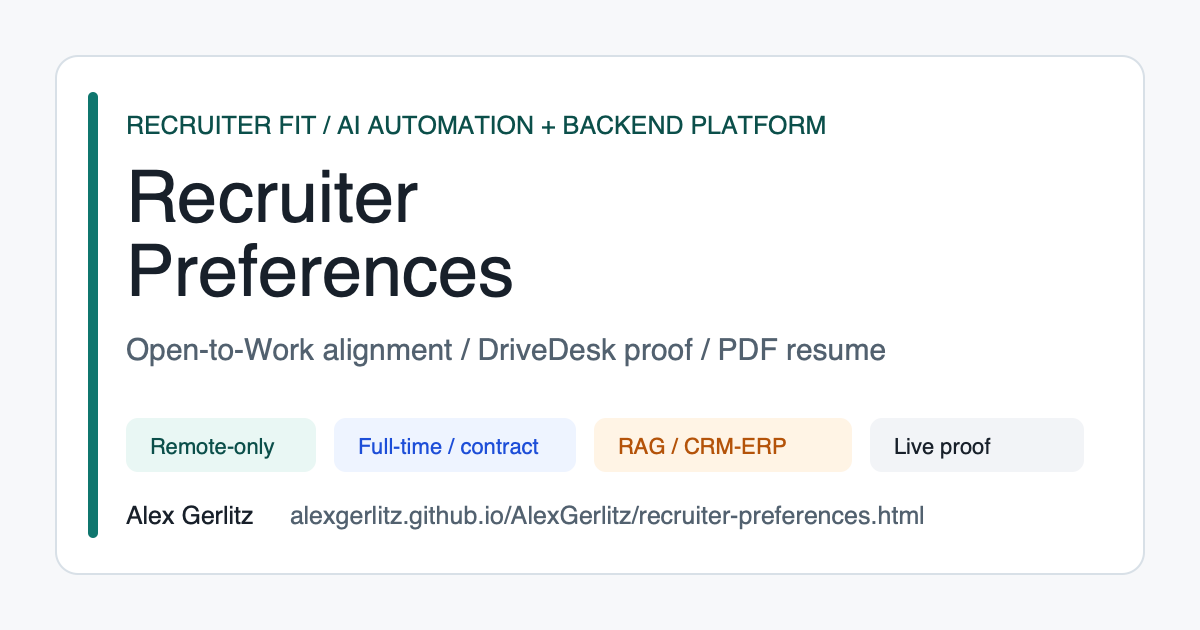
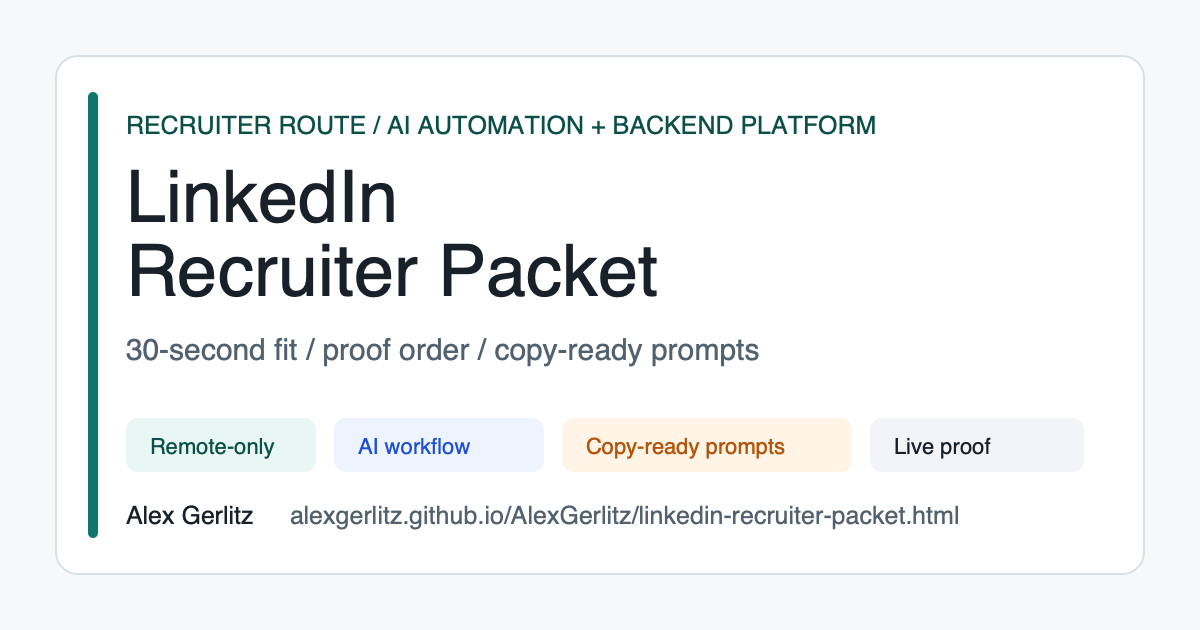
Refresh recruiter social preview card

diff --git a/recruiter-preferences.html b/recruiter-preferences.html
@@ -10,8 +10,8 @@
   <meta property="og:title" content="Recruiter Preferences - Alex Gerlitz">
   <meta property="og:description" content="Open-to-Work alignment: job titles, remote work mode, remote/location filter, language review filter, LinkedIn skills search surface, recruiter Boolean search strings, proof stack, and contact fit.">
   <meta property="og:url" content="https://alexgerlitz.github.io/AlexGerlitz/recruiter-preferences.html">
-  <meta property="og:image" content="https://alexgerlitz.github.io/AlexGerlitz/assets/recruiter-card.png?v=2026-06-29-recruiter-card">
-  <meta property="og:image:secure_url" content="https://alexgerlitz.github.io/AlexGerlitz/assets/recruiter-card.png?v=2026-06-29-recruiter-card">
+  <meta property="og:image" content="https://alexgerlitz.github.io/AlexGerlitz/assets/recruiter-card.png?v=2026-06-29-recruiter-route">
+  <meta property="og:image:secure_url" content="https://alexgerlitz.github.io/AlexGerlitz/assets/recruiter-card.png?v=2026-06-29-recruiter-route">
   <meta property="og:image:type" content="image/png">
   <meta property="og:image:width" content="1200">
   <meta property="og:image:height" content="630">
@@ -19,7 +19,7 @@
   <meta name="twitter:card" content="summary_large_image">
   <meta name="twitter:title" content="Recruiter Preferences - Alex Gerlitz">
   <meta name="twitter:description" content="Remote recruiter search alignment for backend/platform, AI automation, integrations, DevOps, recruiter filter map, LinkedIn skills search surface, Boolean search strings, proof stack, and contact fit.">
-  <meta name="twitter:image" content="https://alexgerlitz.github.io/AlexGerlitz/assets/recruiter-card.png?v=2026-06-29-recruiter-card">
+  <meta name="twitter:image" content="https://alexgerlitz.github.io/AlexGerlitz/assets/recruiter-card.png?v=2026-06-29-recruiter-route">
   <meta name="twitter:image:alt" content="Alex Gerlitz recruiter preferences preview.">
   <script type="application/ld+json">
     {

diff --git a/decision-ready-contact.html b/decision-ready-contact.html
@@ -10,8 +10,8 @@
   <meta property="og:title" content="Decision-Ready Contact - Alex Gerlitz">
   <meta property="og:description" content="Copy-ready first messages for one role, workflow, project, or proof question, plus fit read, risky assumptions, smallest responsible first slice, proof path, and next route.">
   <meta property="og:url" content="https://alexgerlitz.github.io/AlexGerlitz/decision-ready-contact.html">
-  <meta property="og:image" content="https://alexgerlitz.github.io/AlexGerlitz/assets/recruiter-card.png?v=2026-06-29-recruiter-card">
-  <meta property="og:image:secure_url" content="https://alexgerlitz.github.io/AlexGerlitz/assets/recruiter-card.png?v=2026-06-29-recruiter-card">
+  <meta property="og:image" content="https://alexgerlitz.github.io/AlexGerlitz/assets/recruiter-card.png?v=2026-06-29-recruiter-route">
+  <meta property="og:image:secure_url" content="https://alexgerlitz.github.io/AlexGerlitz/assets/recruiter-card.png?v=2026-06-29-recruiter-route">
   <meta property="og:image:type" content="image/png">
   <meta property="og:image:width" content="1200">
   <meta property="og:image:height" content="630">
@@ -19,7 +19,7 @@
   <meta name="twitter:card" content="summary_large_image">
   <meta name="twitter:title" content="Decision-Ready Contact - Alex Gerlitz">
   <meta name="twitter:description" content="Copy-ready first-contact route with fit read, risky assumptions, first slice, proof path, and next route.">
-  <meta name="twitter:image" content="https://alexgerlitz.github.io/AlexGerlitz/assets/recruiter-card.png?v=2026-06-29-recruiter-card">
+  <meta name="twitter:image" content="https://alexgerlitz.github.io/AlexGerlitz/assets/recruiter-card.png?v=2026-06-29-recruiter-route">
   <meta name="twitter:image:alt" content="Alex Gerlitz decision-ready contact preview.">
   <link rel="stylesheet" href="./assets/copy-blocks.css">
   <script src="./assets/copy-blocks.js" defer></script>

diff --git a/linkedin-recruiter-packet.html b/linkedin-recruiter-packet.html
@@ -10,8 +10,8 @@
   <meta property="og:title" content="LinkedIn Recruiter Packet - Alex Gerlitz">
   <meta property="og:description" content="Fast LinkedIn recruiter route: filters, Boolean search strings, proof order, copy-ready first messages, message triggers, and PDF resume.">
   <meta property="og:url" content="https://alexgerlitz.github.io/AlexGerlitz/linkedin-recruiter-packet.html">
-  <meta property="og:image" content="https://alexgerlitz.github.io/AlexGerlitz/assets/recruiter-card.png?v=2026-06-29-recruiter-card">
-  <meta property="og:image:secure_url" content="https://alexgerlitz.github.io/AlexGerlitz/assets/recruiter-card.png?v=2026-06-29-recruiter-card">
+  <meta property="og:image" content="https://alexgerlitz.github.io/AlexGerlitz/assets/recruiter-card.png?v=2026-06-29-recruiter-route">
+  <meta property="og:image:secure_url" content="https://alexgerlitz.github.io/AlexGerlitz/assets/recruiter-card.png?v=2026-06-29-recruiter-route">
   <meta property="og:image:type" content="image/png">
   <meta property="og:image:width" content="1200">
   <meta property="og:image:height" content="630">
@@ -19,7 +19,7 @@
   <meta name="twitter:card" content="summary_large_image">
   <meta name="twitter:title" content="LinkedIn Recruiter Packet - Alex Gerlitz">
   <meta name="twitter:description" content="Remote backend/platform and AI automation recruiter packet with proof order, recruiter filter map, Boolean search strings, copy-ready first messages, and contact route.">
-  <meta name="twitter:image" content="https://alexgerlitz.github.io/AlexGerlitz/assets/recruiter-card.png?v=2026-06-29-recruiter-card">
+  <meta name="twitter:image" content="https://alexgerlitz.github.io/AlexGerlitz/assets/recruiter-card.png?v=2026-06-29-recruiter-route">
   <meta name="twitter:image:alt" content="Alex Gerlitz LinkedIn recruiter packet preview.">
   <script type="application/ld+json">
     {

diff --git a/scripts/audit_public_profile.py b/scripts/audit_public_profile.py
@@ -391,7 +391,7 @@ REQUIRED_TEXT = {
         "<title>LinkedIn Recruiter Packet - Alex Gerlitz</title>",
         'rel="canonical" href="https://alexgerlitz.github.io/AlexGerlitz/linkedin-recruiter-packet.html"',
         'property="og:url" content="https://alexgerlitz.github.io/AlexGerlitz/linkedin-recruiter-packet.html"',
-        'property="og:image" content="https://alexgerlitz.github.io/AlexGerlitz/assets/recruiter-card.png?v=2026-06-29-recruiter-card"',
+        'property="og:image" content="https://alexgerlitz.github.io/AlexGerlitz/assets/recruiter-card.png?v=2026-06-29-recruiter-route"',
         'property="og:image:width" content="1200"',
         'property="og:image:height" content="630"',
         'name="twitter:card" content="summary_large_image"',
@@ -504,7 +504,7 @@ REQUIRED_TEXT = {
         "<title>Recruiter Preferences - Alex Gerlitz</title>",
         'rel="canonical" href="https://alexgerlitz.github.io/AlexGerlitz/recruiter-preferences.html"',
         'property="og:url" content="https://alexgerlitz.github.io/AlexGerlitz/recruiter-preferences.html"',
-        'property="og:image" content="https://alexgerlitz.github.io/AlexGerlitz/assets/recruiter-card.png?v=2026-06-29-recruiter-card"',
+        'property="og:image" content="https://alexgerlitz.github.io/AlexGerlitz/assets/recruiter-card.png?v=2026-06-29-recruiter-route"',
         'property="og:image:width" content="1200"',
         'property="og:image:height" content="630"',
         'name="twitter:card" content="summary_large_image"',
@@ -582,7 +582,7 @@ REQUIRED_TEXT = {
         "Copy-ready first-contact route with fit read, risky assumptions, first slice, proof path, and next route.",
         'rel="canonical" href="https://alexgerlitz.github.io/AlexGerlitz/decision-ready-contact.html"',
         'property="og:url" content="https://alexgerlitz.github.io/AlexGerlitz/decision-ready-contact.html"',
-        'property="og:image" content="https://alexgerlitz.github.io/AlexGerlitz/assets/recruiter-card.png?v=2026-06-29-recruiter-card"',
+        'property="og:image" content="https://alexgerlitz.github.io/AlexGerlitz/assets/recruiter-card.png?v=2026-06-29-recruiter-route"',
         'property="og:image:width" content="1200"',
         'property="og:image:height" content="630"',
         'name="twitter:card" content="summary_large_image"',
@@ -1929,14 +1929,16 @@ REQUIRED_TEXT = {
         "drivedesk-proof-route.html",
     ],
     "assets/recruiter-card.svg": [
-        "Recruiter Preferences - Alex Gerlitz",
-        "RECRUITER FIT / AI AUTOMATION + BACKEND PLATFORM",
-        "Recruiter",
-        "Preferences",
-        "Open-to-Work alignment / DriveDesk proof / PDF resume",
-        "Full-time / contract",
-        "RAG / CRM-ERP",
-        "alexgerlitz.github.io/AlexGerlitz/recruiter-preferences.html",
+        "LinkedIn Recruiter Packet - Alex Gerlitz",
+        "RECRUITER ROUTE / AI AUTOMATION + BACKEND PLATFORM",
+        "LinkedIn",
+        "Recruiter Packet",
+        "30-second fit / proof order / copy-ready prompts",
+        "Remote-only",
+        "AI workflow",
+        "Copy-ready prompts",
+        "Live proof",
+        "alexgerlitz.github.io/AlexGerlitz/linkedin-recruiter-packet.html",
     ],
     "assets/ai-backend-proof-pack-card.svg": [
         "AI Backend Proof Pack - Alex Gerlitz",
@@ -2212,36 +2214,36 @@ SOCIAL_PREVIEW_SNIPPETS = [
 
 SOCIAL_PREVIEW_PAGE_SNIPPETS = {
     "linkedin-recruiter-packet.html": [
-        'property="og:image" content="https://alexgerlitz.github.io/AlexGerlitz/assets/recruiter-card.png?v=2026-06-29-recruiter-card"',
-        'property="og:image:secure_url" content="https://alexgerlitz.github.io/AlexGerlitz/assets/recruiter-card.png?v=2026-06-29-recruiter-card"',
+        'property="og:image" content="https://alexgerlitz.github.io/AlexGerlitz/assets/recruiter-card.png?v=2026-06-29-recruiter-route"',
+        'property="og:image:secure_url" content="https://alexgerlitz.github.io/AlexGerlitz/assets/recruiter-card.png?v=2026-06-29-recruiter-route"',
         'property="og:image:type" content="image/png"',
         'property="og:image:width" content="1200"',
         'property="og:image:height" content="630"',
         'property="og:image:alt"',
         'name="twitter:card" content="summary_large_image"',
-        'name="twitter:image" content="https://alexgerlitz.github.io/AlexGerlitz/assets/recruiter-card.png?v=2026-06-29-recruiter-card"',
+        'name="twitter:image" content="https://alexgerlitz.github.io/AlexGerlitz/assets/recruiter-card.png?v=2026-06-29-recruiter-route"',
         'name="twitter:image:alt"',
     ],
     "recruiter-preferences.html": [
-        'property="og:image" content="https://alexgerlitz.github.io/AlexGerlitz/assets/recruiter-card.png?v=2026-06-29-recruiter-card"',
-        'property="og:image:secure_url" content="https://alexgerlitz.github.io/AlexGerlitz/assets/recruiter-card.png?v=2026-06-29-recruiter-card"',
+        'property="og:image" content="https://alexgerlitz.github.io/AlexGerlitz/assets/recruiter-card.png?v=2026-06-29-recruiter-route"',
+        'property="og:image:secure_url" content="https://alexgerlitz.github.io/AlexGerlitz/assets/recruiter-card.png?v=2026-06-29-recruiter-route"',
         'property="og:image:type" content="image/png"',
         'property="og:image:width" content="1200"',
         'property="og:image:height" content="630"',
         'property="og:image:alt"',
         'name="twitter:card" content="summary_large_image"',
-        'name="twitter:image" content="https://alexgerlitz.github.io/AlexGerlitz/assets/recruiter-card.png?v=2026-06-29-recruiter-card"',
+        'name="twitter:image" content="https://alexgerlitz.github.io/AlexGerlitz/assets/recruiter-card.png?v=2026-06-29-recruiter-route"',
         'name="twitter:image:alt"',
     ],
     "decision-ready-contact.html": [
-        'property="og:image" content="https://alexgerlitz.github.io/AlexGerlitz/assets/recruiter-card.png?v=2026-06-29-recruiter-card"',
-        'property="og:image:secure_url" content="https://alexgerlitz.github.io/AlexGerlitz/assets/recruiter-card.png?v=2026-06-29-recruiter-card"',
+        'property="og:image" content="https://alexgerlitz.github.io/AlexGerlitz/assets/recruiter-card.png?v=2026-06-29-recruiter-route"',
+        'property="og:image:secure_url" content="https://alexgerlitz.github.io/AlexGerlitz/assets/recruiter-card.png?v=2026-06-29-recruiter-route"',
         'property="og:image:type" content="image/png"',
         'property="og:image:width" content="1200"',
         'property="og:image:height" content="630"',
         'property="og:image:alt"',
         'name="twitter:card" content="summary_large_image"',
-        'name="twitter:image" content="https://alexgerlitz.github.io/AlexGerlitz/assets/recruiter-card.png?v=2026-06-29-recruiter-card"',
+        'name="twitter:image" content="https://alexgerlitz.github.io/AlexGerlitz/assets/recruiter-card.png?v=2026-06-29-recruiter-route"',
         'name="twitter:image:alt"',
     ],
     "ai-backend-proof-pack.html": [

diff --git a/scripts/smoke_public_routes.py b/scripts/smoke_public_routes.py
@@ -1922,7 +1922,7 @@ ROUTES: tuple[RouteCheck, ...] = (
     ),
     RouteCheck(
         "recruiter-card-image",
-        "https://alexgerlitz.github.io/AlexGerlitz/assets/recruiter-card.png?v=2026-06-29-recruiter-card",
+        "https://alexgerlitz.github.io/AlexGerlitz/assets/recruiter-card.png?v=2026-06-29-recruiter-route",
         content_type="image/png",
         min_bytes=10_000,
         png_dimensions=(1200, 630),
